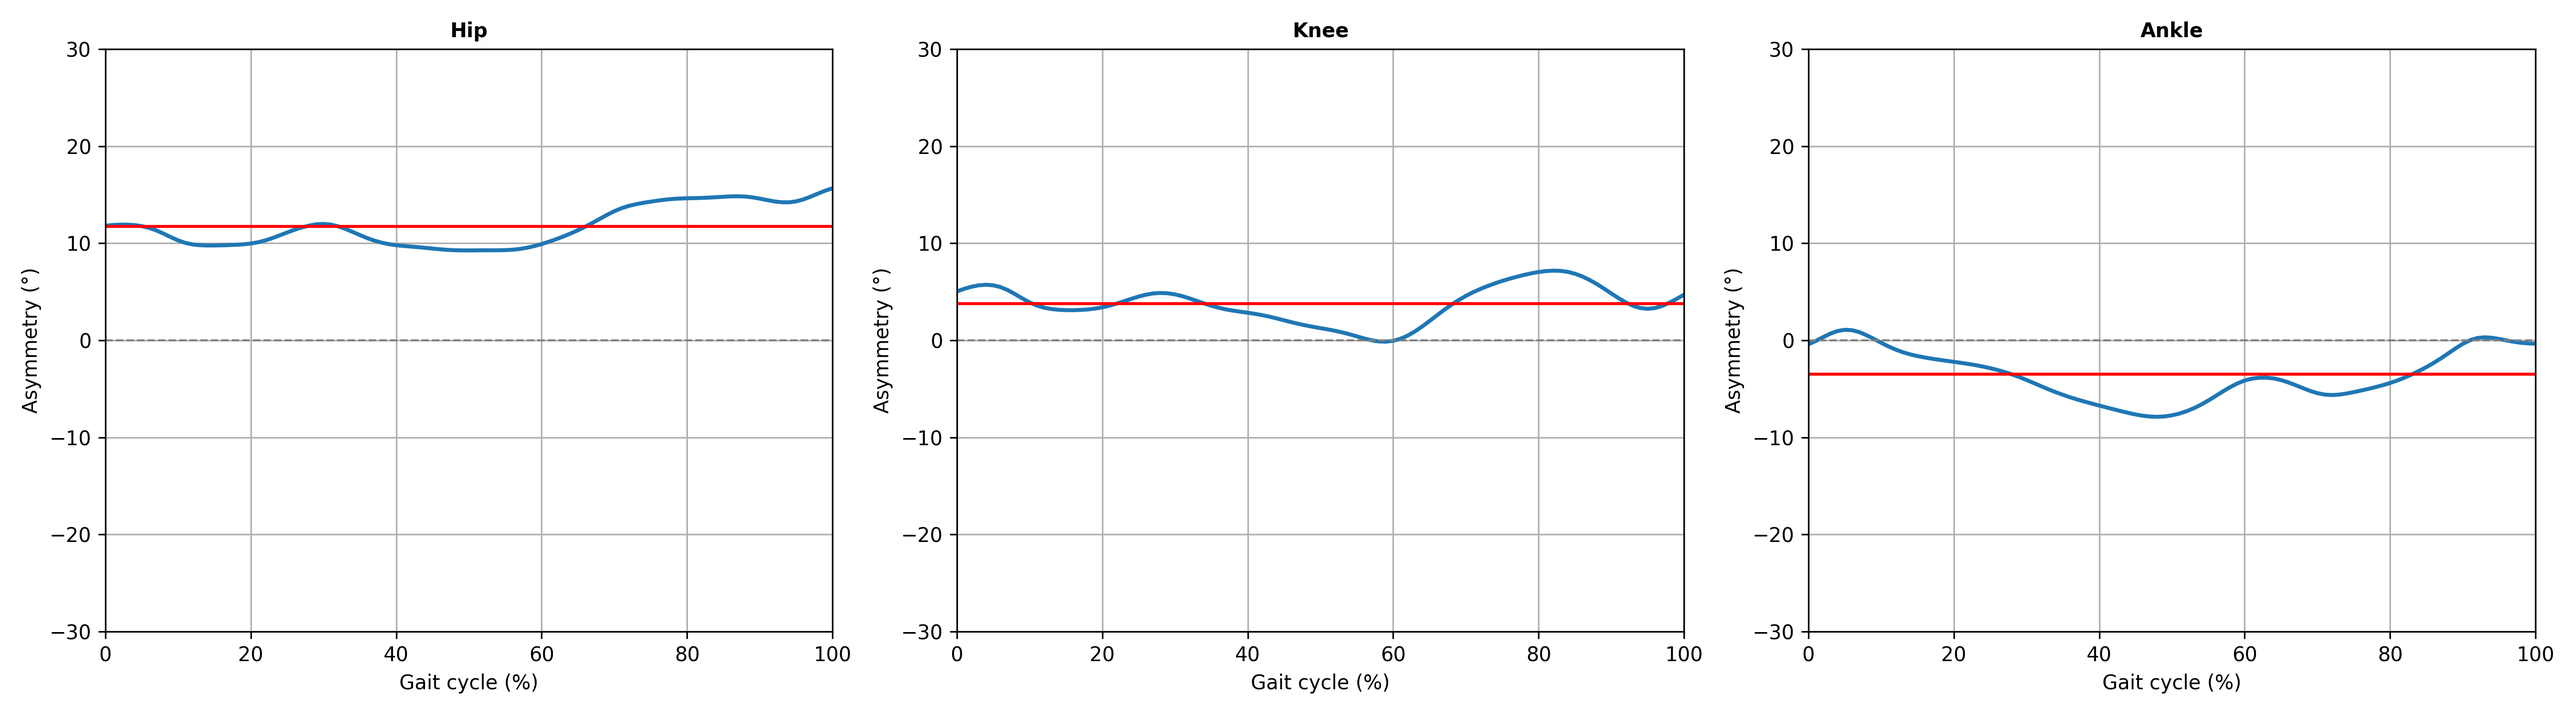
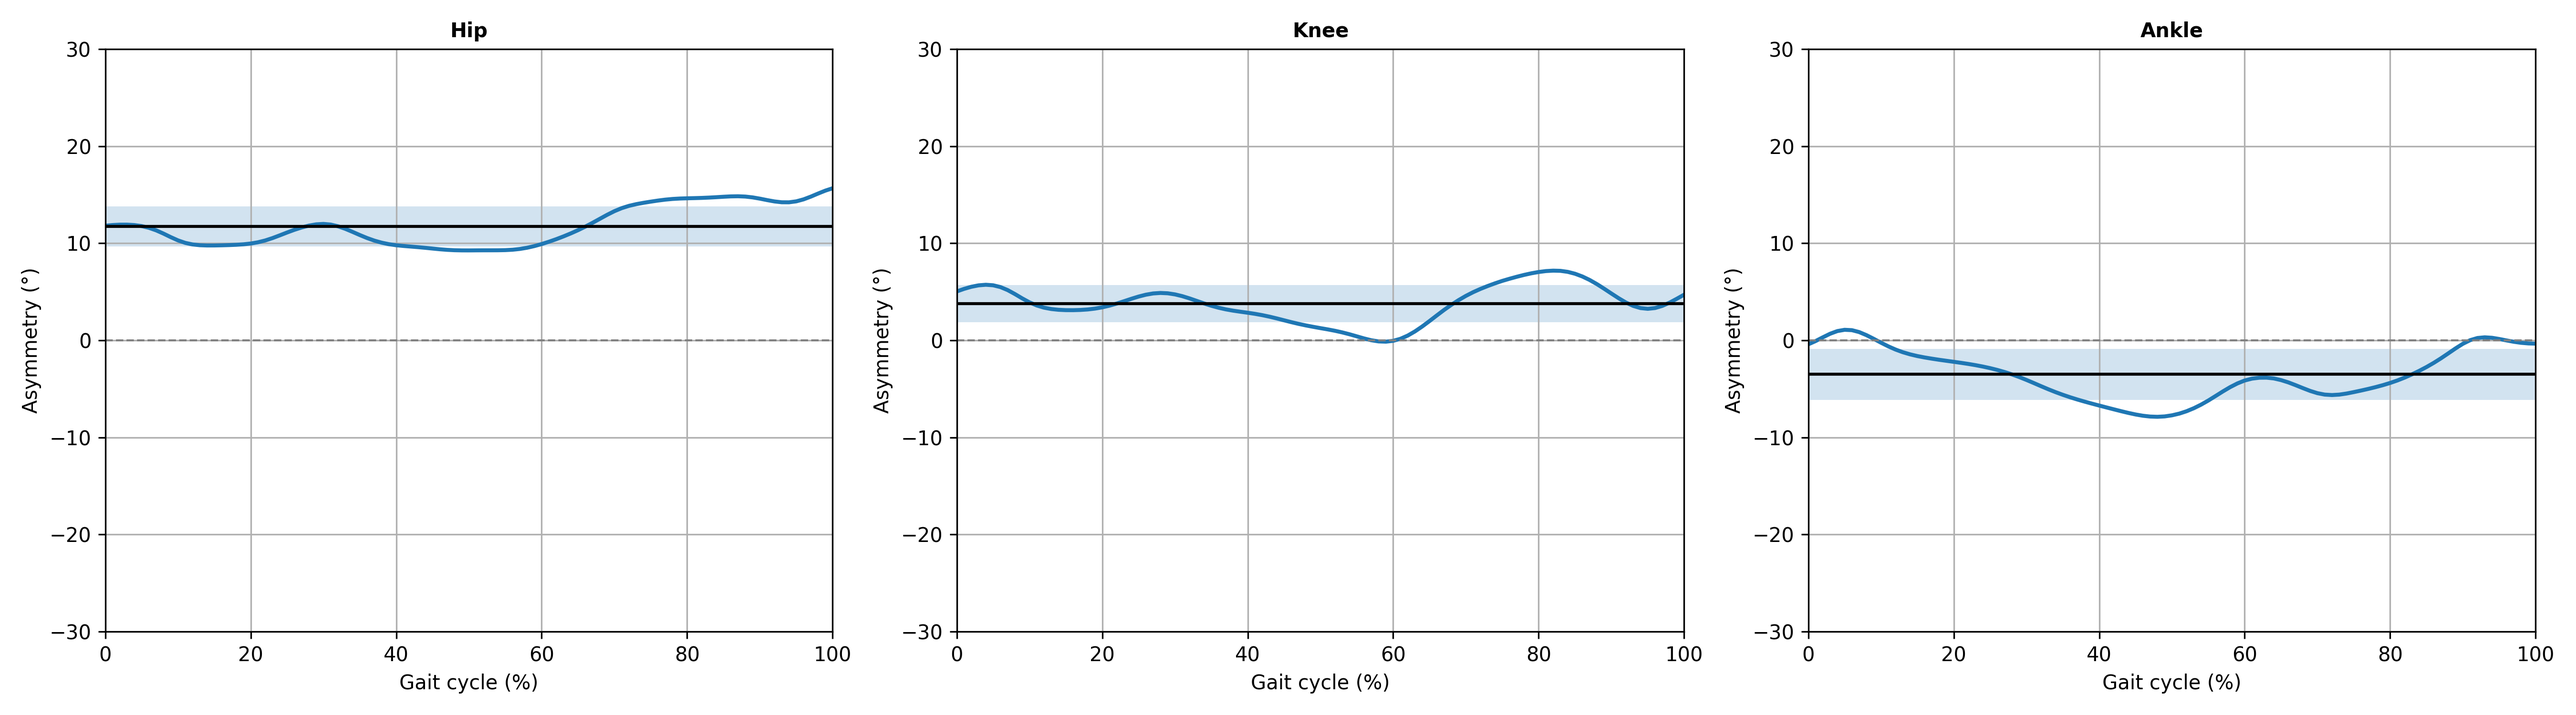
modif files

Changed region(s): [[0.6844, 0.4907, 0.9956, 0.5827], [0.0311, 0.276, 0.3422, 0.368], [0.3733, 0.3987, 0.6533, 0.46]]

diff --git a/scripts/main.py b/scripts/main.py
@@ -5,9 +5,6 @@ import matplotlib.pyplot as plt
 import moveck_bridge_btk as btk
 from scipy.stats import wilcoxon, shapiro
 
-# ---------------------------------------------------------------------
-# PARAMÈTRES GÉNÉRAUX
-# ---------------------------------------------------------------------
 output_dir = REP
 output_dir.mkdir(parents=True, exist_ok=True)
 
@@ -57,7 +54,7 @@ for seg in ["Foot", "Leg", "Thigh"]:
 
 def compute_derivative(y, dt, ordre):
     """
-    Calcule la dérivée numérique d'ordre 'ordre' par np.gradient
+    Calcule la dérivée numérique d'ordre 'ordre'
     en supposant un pas de temps constant dt.
     """
     for _ in range(ordre):
@@ -67,7 +64,6 @@ def compute_derivative(y, dt, ordre):
 def sort_events(events):
     """
     Trie chronologiquement les évènements HS et TO pour chaque côté.
-    events[side][evt]["frame" / "time"] sont triés par frame croissante.
     """
     for side in events:
         for evt in ["HS", "TO"]:
@@ -82,7 +78,7 @@ def sort_events(events):
 def normalize_cycle(signal, start_frame, end_frame, n_points=101):
     """
     Extrait un cycle entre start_frame et end_frame (inclus)
-    et le renormalise sur 0–100 % avec n_points échantillons.
+    et le normalise sur 0–100 % avec n_points échantillons.
     """
     cycle = signal[start_frame:end_frame+1]
     n = len(cycle)
@@ -96,7 +92,7 @@ def normalize_cycle(signal, start_frame, end_frame, n_points=101):
 
 def angle(v):
     """
-    Calcule l'angle du vecteur v dans le plan (Y,Z) en degrés,
+    Calcule l'angle du vecteur v dans le plan (Y, Z) en degrés,
     avec déroulement de phase (unwrap).
     v : array (n_frames, 3).
     """
@@ -126,8 +122,8 @@ def compute_integral(curves_by_joint):
 
 def kinematics_analysis(file, joints):
     """
-    Lit un fichier .c3d, calcule les angles Hip/Knee/Ankle (Right & Left),
-    détecte un cycle de marche par côté (HS–HS), normalise les courbes
+    Lit un fichier c3d, calcule les angles Hip/Knee/Ankle (Right & Left),
+    détecte un cycle de marche par côté (HS – HS), normalise les courbes
     sur 0–100 % du cycle et renvoie les angles normalisés.
     """
 
@@ -327,11 +323,16 @@ def plot_asymmetry(gc, asym, joints, filename):
     for i, joint in enumerate(joints):
         ax = axes[i]
         curve = asym[joint]
-        mean_asym = curve.mean()
+        mean_curve = curve.mean()
+        std_curve = curve.std(axis=0)
+        ax.fill_between(gc,
+                        mean_curve - std_curve,
+                        mean_curve + std_curve,
+                        alpha=0.2)
 
         ax.plot(gc, curve, linewidth=2)
         ax.axhline(0, color="gray", linestyle="--", linewidth=1)
-        ax.axhline(mean_asym, color="red", linestyle="-", linewidth=1.5)
+        ax.axhline(mean_curve, color="k", linestyle="-", linewidth=1.5)
 
         ax.set_title(joint, fontsize=10, fontweight="bold")
         ax.set_xlabel("Gait cycle (%)")
@@ -487,7 +488,7 @@ print("\nIntégrale d’asymétrie (Impaired) :")
 for joint in joints:
     print(f"{joint}: {integral_imp[joint]:.2f}\n")
 
-# 5.6 Différence d’angle Impaired – Healthy pour chaque jambe (Q8–Q9)
+# 5.6 Différence d’angle Impaired – Healthy pour chaque jambe
 diff_angles = compute_imp_minus_hea(curves_hea, curves_imp, joints)
 
 # 5.6.1 Normalité des Δ angles (Shapiro–Wilk)
@@ -592,7 +593,7 @@ def inverse_dynamics(file, joints):
     time  = np.arange(frame) / freq
     dt    = 1.0 / freq
 
-    # Marqueurs en m
+    # Marqueurs en metres
     markers_m = {name: arr / 1000.0 for name, arr in markers.items()}
 
     # Force plates
@@ -909,7 +910,7 @@ def inverse_dynamics(file, joints):
 # ----------------------------------------------------------------------
 def compute_group_moments(dir_path, joints):
     """
-    Parcourt tous les fichiers .c3d d'un dossier (HEA ou IMP),
+    Parcourt tous les fichiers c3d d'un dossier (HEA ou IMP),
     applique inverse_dynamics et stocke toutes les courbes
     normalisées dans all_moments[joint][side].
     """
@@ -934,7 +935,7 @@ def compute_group_moments(dir_path, joints):
 def plot_group_moments(gc, all_moments, joints, filename):
     """
     Trace, pour chaque articulation, la moyenne ± 1 SD
-    des moments articulaires (Nm/kg) des membres droit et gauche.
+    des moments articulaires (Nm/kg) des membres droits et gauches.
     """
     fig, axes = plt.subplots(1, 3, figsize=(18, 5))
     axes = axes.flatten()
